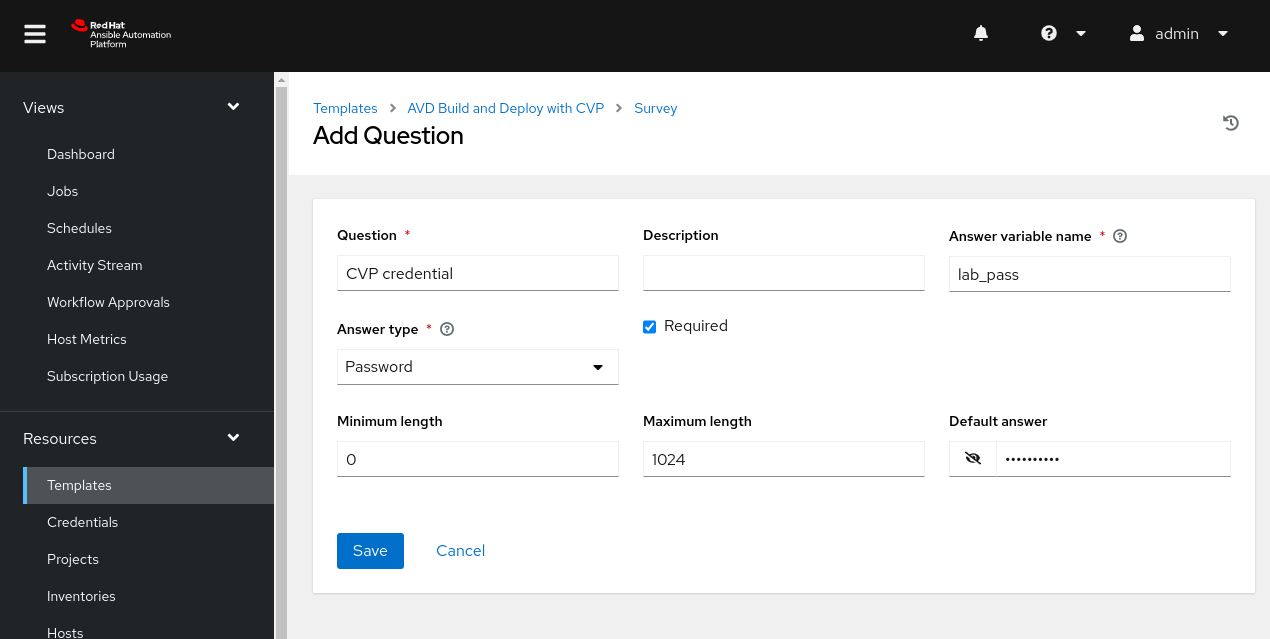
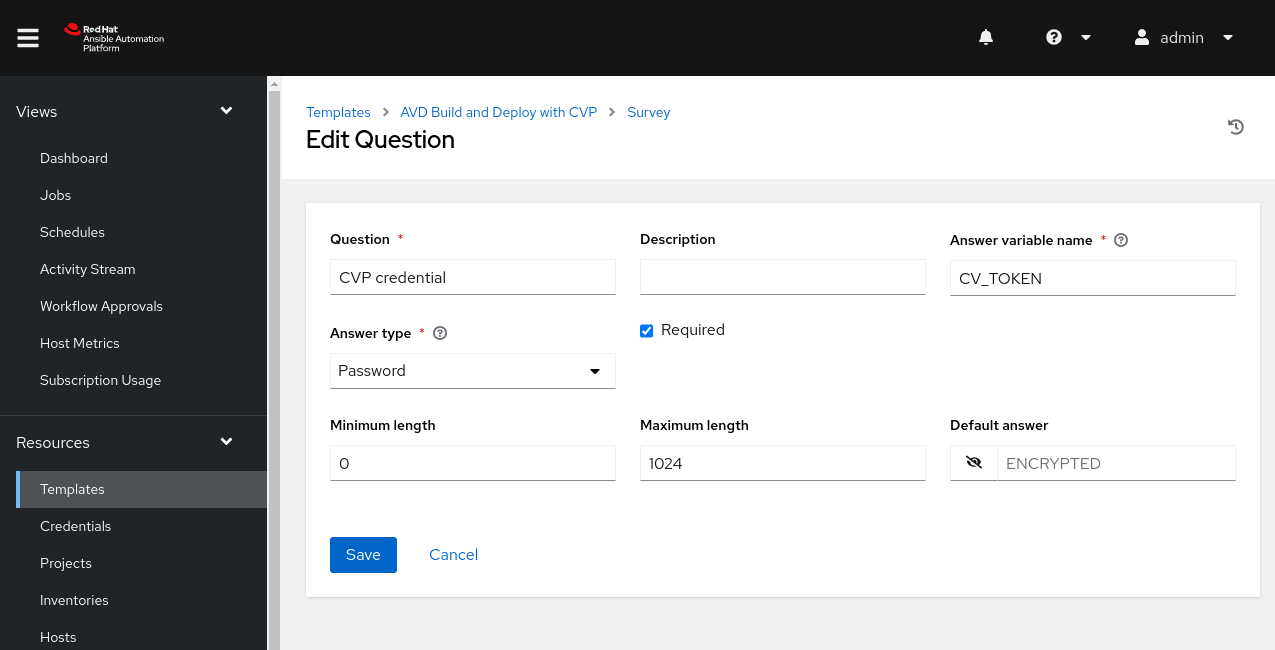
Saving latest edits

diff --git a/ansible_collections/arista/avd/docs/getting-started/avd-aap.md b/ansible_collections/arista/avd/docs/getting-started/avd-aap.md
@@ -10,7 +10,7 @@ This guide will walk you through the steps required to get up and running with A
 
 ## Requirements to get started
 
-Please note, that this guide leverages AAP version 2.4. The workflows should be similar in newer versions; if there are any questions, please see the official [AAP documentation](https://access.redhat.com/documentation/en-us/red_hat_ansible_automation_platform/2.4).
+Please note, that this guide leverages AAP version 2.4. The workflows should be similar in newer versions; if there are any questions, please see the official [AAP documentation](https://access.redhat.com/documentation/en-us/red_hat_ansible_automation_platform/2.4). If you seen any errors in this guide, please open an [issue](https://github.com/aristanetworks/avd/issues).
 
 - An accessible lab topology running Arista EOS.
 - An AVD project or Git repository with playbooks and an inventory. To get started, you may also use any of our [example topologies](../../examples/single-dc-l3ls/README.md).
@@ -20,7 +20,7 @@ Please note, that this guide leverages AAP version 2.4. The workflows should be 
 
 ## Topology
 
-Our topology leverages two spines and four leaf nodes to create a layer three leaf spine topology. The topology is managed by Arista CloudVision Portal (CVP). In our case, the EOS nodes are constantly streaming to CVP and gives us the ability to provision the nodes with CVP. AAP will act as our controller to communicate any updates to CVP, which can then push the updates to our topology.
+Our topology leverages two spines and four leaf nodes to create a layer three leaf spine topology. The topology is managed by Arista CloudVision (CV). In our case, the EOS nodes are constantly streaming to CV and gives us the ability to provision the nodes with CV. AAP will act as our controller to communicate any updates to CV, which can then push the updates to our topology.
 
 ![Topology leveraging Ansible Automation Platform to communicate with CloudVision](../_media/getting-started/aap-avd/aap-cvp-eos.svg)
 
@@ -262,7 +262,7 @@ There are a few locations to view the inventory, but for simplicity, we can view
 
 ## Job templates and workflow templates
 
-One thing that may need some clarification is the naming of "job templates." These map to playbooks within our project. There is also an option to build workflow templates: a series of job templates with some control logic built-in. For this example, we will use a job template to build and deploy our node configurations with CVP.
+One thing that may need some clarification is the naming of "job templates." These map to playbooks within our project. There is also an option to build workflow templates: a series of job templates with some control logic built-in. For this example, we will use a job template to build and deploy our node configurations with CV.
 
 === "Click on Templates"
 
@@ -288,7 +288,7 @@ One thing that may need some clarification is the naming of "job templates." The
 
 ### Surveys
 
-With most jobs, we need a way to authenticate to our CVP instance or EOS nodes. AAP provides a multitude of ways to define credentials. Some options are credentials for Network devices, Container registries, HashiCorp Vault, etc. Feel free to explore any option you need for your environment. For this guide, we will leverage a survey secret. Surveys allow us to ask users for information we require for a job to execute correctly. We will leverage a survey with a default secret value (this is the credential used to connect to our nodes).
+With most jobs, we need a way to authenticate to our CV instance or EOS nodes. AAP provides a multitude of ways to define credentials. Some options are credentials for Network devices, Container registries, HashiCorp Vault, etc. Feel free to explore any option you need for your environment. For this guide, we will leverage a survey secret. Surveys allow us to ask users for information we require for a job to execute correctly. We will leverage a survey with a default secret value (this is the credential used to connect to our nodes).
 
 === "Surveys"
 
@@ -300,19 +300,22 @@ With most jobs, we need a way to authenticate to our CVP instance or EOS nodes. 
 
     - On the center pane, select `Add`.
     - Set `Question` to an appropriate value.
-    - Set `Answer variable name` to any valid variable name, here we use `lab_pass`.
+    - Set `Answer variable name` to any valid variable name, here we use `CV_TOKEN`.
     - `Answer type` is set to `Password` and the default value is set.
     - Click `Save` when done.
 
     ![Survey save](../_media/getting-started/aap-avd/survey-save.png)
 
-    The `lab_pass` variable or whichever name you would prefer can be used in your project by assigning the correct variable value to the `ansible_password` variable.
+    The `CV_TOKEN` variable will be leveraged when provisioning the fabric with the `cv_deploy` role.
 
     ```yaml
-    vars:
-      ansible_user: arista
-      ansible_password: "{{ lab_pass }}"
-      ansible_network_os: arista.eos.eos
+    tasks:
+      - name: Provision CV with AVD configuration
+        import_role:
+          name: cv_deploy
+        vars:
+          cv_server: <CV or CVaaS URL>
+          cv_token: "{{ CV_TOKEN }}"
     ```
 
 === "Surveys - Enable"
@@ -321,9 +324,9 @@ With most jobs, we need a way to authenticate to our CVP instance or EOS nodes. 
 
     ![Survey enable](../_media/getting-started/aap-avd/survey-enabled.png)
 
-### Running the Template with CVP
+### Running the Template with CV
 
-Below is an example of the playbook we are leveraging to build and deploy our configurations with CVP.
+Below is an example of the playbook we are leveraging to build and deploy our configurations with CV.
 
 ```yaml
 ---
@@ -345,24 +348,19 @@ Below is an example of the playbook we are leveraging to build and deploy our co
       import_role:
         name: eos_cli_config_gen
 
-- name: Configuration deployment with CVP
-  hosts: cv_servers
-  connection: local
-  gather_facts: false
-  collections:
-    - arista.avd
-  tasks:
-    - name: Provision CVP with AVD configuration
+    - name: Provision nodes with CV
       import_role:
-        name: eos_config_deploy_cvp
+        name: cv_deploy
       vars:
-        container_root: 'ATD_FABRIC'
-        configlets_prefix: 'AVD'
-        state: present
-        execute_tasks: true
+        cv_server: <CV or CVaaS URL>
+        cv_token: "{{ CV_TOKEN }}"
+
 ```
 
 We have everything we need to run our job template now.
+
+!!! note
+    This guide leverages the `cv_deploy` role for provisioning through CV. The `cv_deploy` role required additional options and tokens to be generated. Please see the `cv_deploy` role [documentation](https://avd.arista.com/stable/roles/cv_deploy/index.html) for the most up-to-date settings.
 
 === "Templates Run"
 
@@ -386,12 +384,12 @@ We have everything we need to run our job template now.
 
     ![Job output](../_media/getting-started/aap-avd/job-output.png)
 
-=== "CVP View"
+=== "CV View"
 
-    From CVP's perspective, we can see a new container topology is created, and our change control workflow has been completed for us when leveraging the CVP Ansible collection.
+    From CV's perspective, we can see a new container topology is created, and our change control workflow has been completed for us when leveraging the CV Ansible collection.
 
-    ![CVP topology](../_media/getting-started/aap-avd/cvp-topo.png)
-    ![CVP Change Controls](../_media/getting-started/aap-avd/cvp-cc.png)
+    ![CV topology](../_media/getting-started/aap-avd/cvp-topo.png)
+    ![CV Change Controls](../_media/getting-started/aap-avd/cvp-cc.png)
 
 ## References
 
